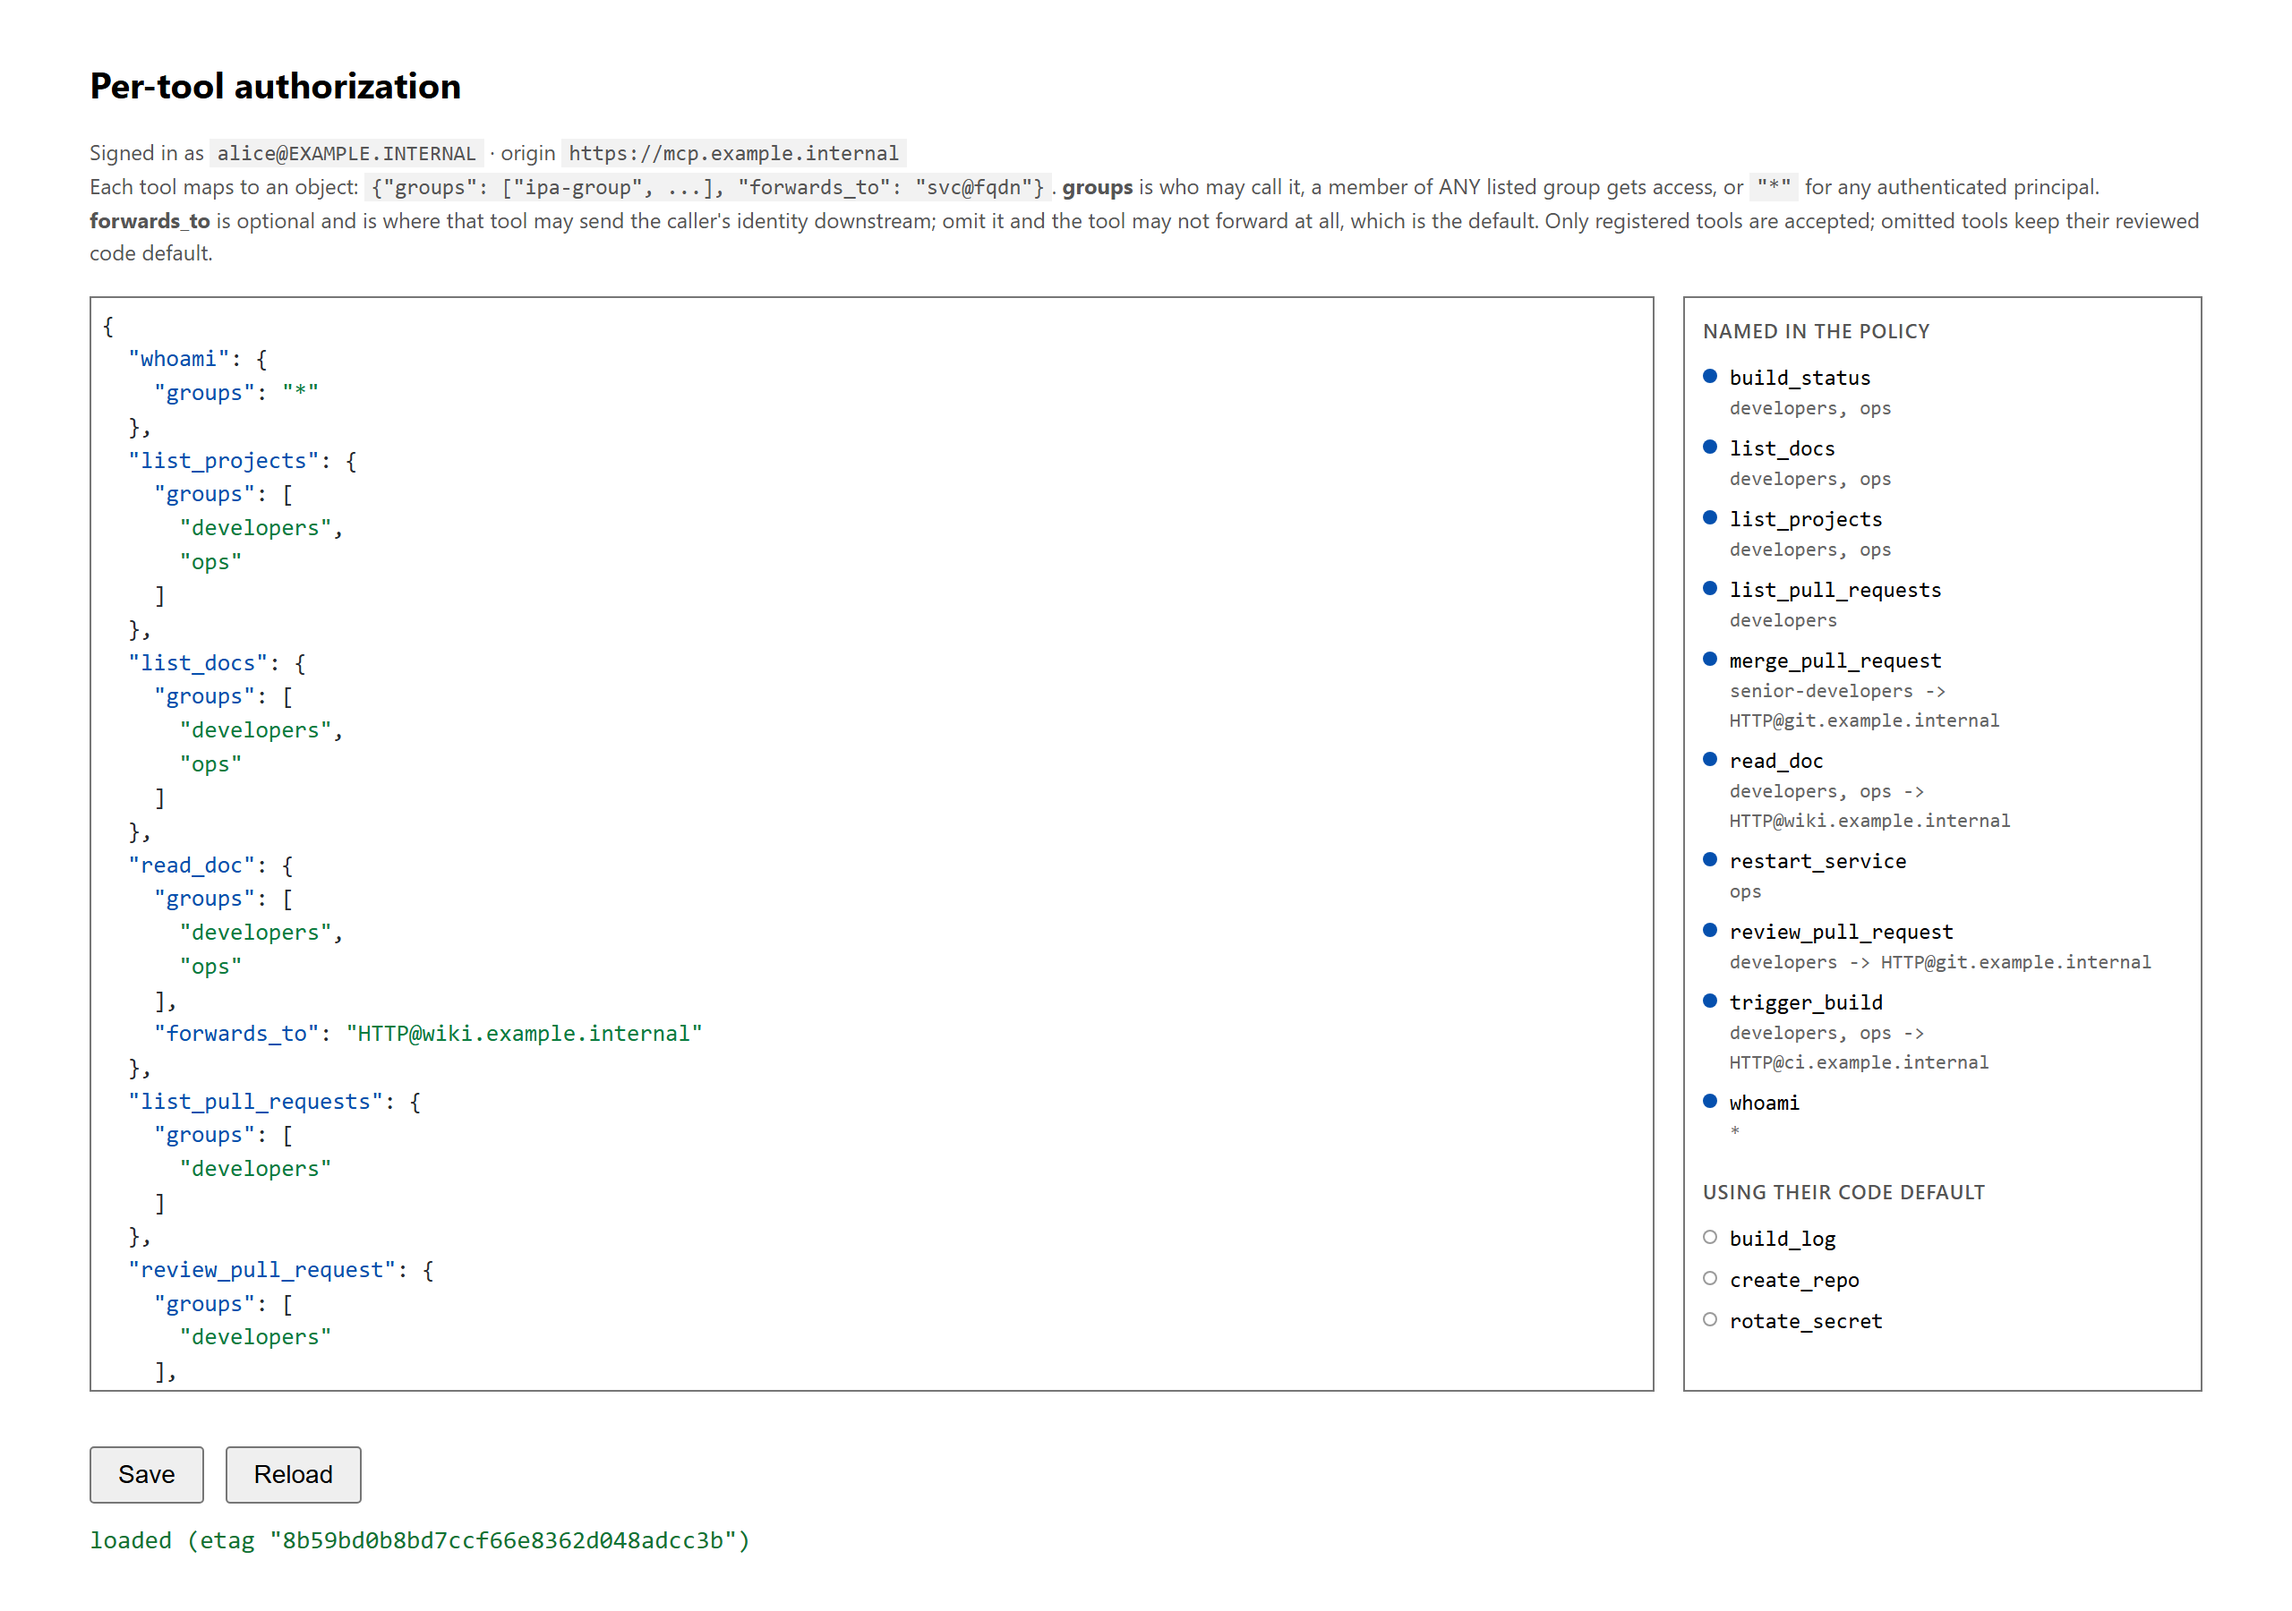
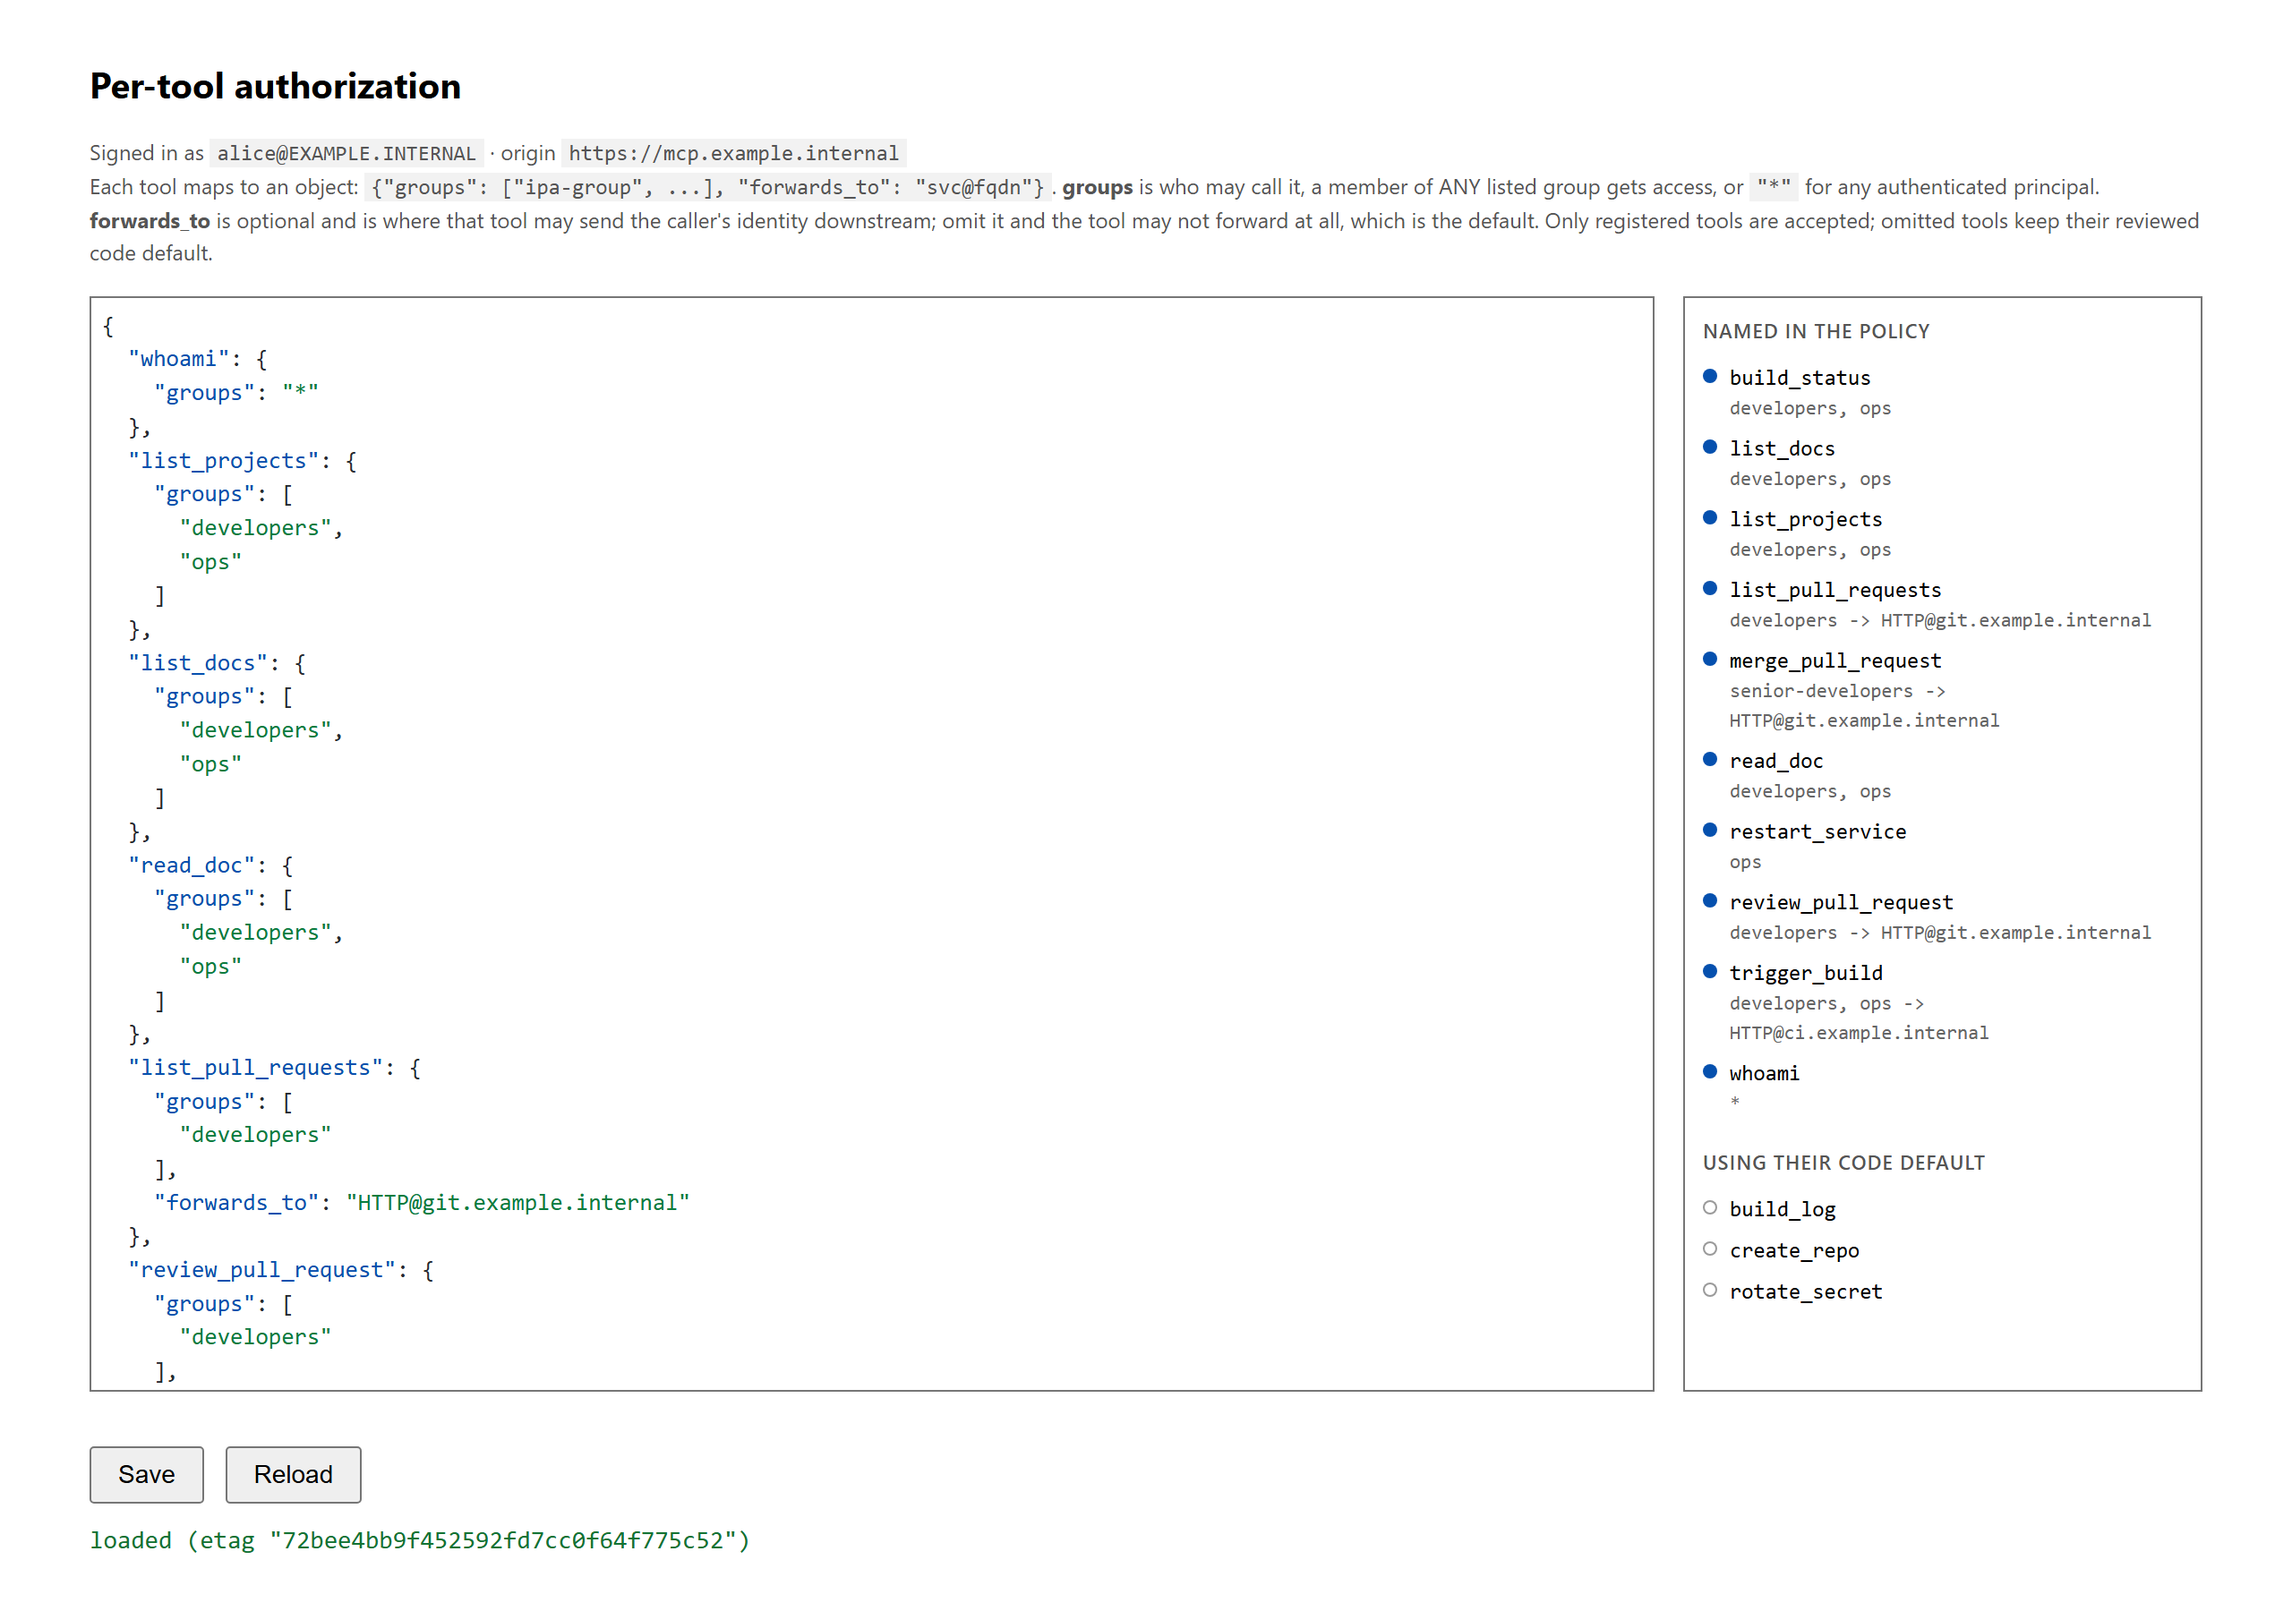
docs: the second visible forward in the editor picture goes to the git service, not a wiki

diff --git a/docs/authz-editor-mock.py b/docs/authz-editor-mock.py
@@ -39,8 +39,8 @@ def main():
         "whoami":              {"groups": any_token},
         "list_projects":       {"groups": ["developers", "ops"]},
         "list_docs":           {"groups": ["developers", "ops"]},
-        "read_doc":            {"groups": ["developers", "ops"], "forwards_to": "HTTP@wiki.example.internal"},
-        "list_pull_requests":  {"groups": ["developers"]},
+        "read_doc":            {"groups": ["developers", "ops"]},
+        "list_pull_requests":  {"groups": ["developers"], "forwards_to": "HTTP@git.example.internal"},
         "review_pull_request": {"groups": ["developers"], "forwards_to": "HTTP@git.example.internal"},
         "merge_pull_request":  {"groups": ["senior-developers"], "forwards_to": "HTTP@git.example.internal"},
         "trigger_build":       {"groups": ["developers", "ops"], "forwards_to": "HTTP@ci.example.internal"},
